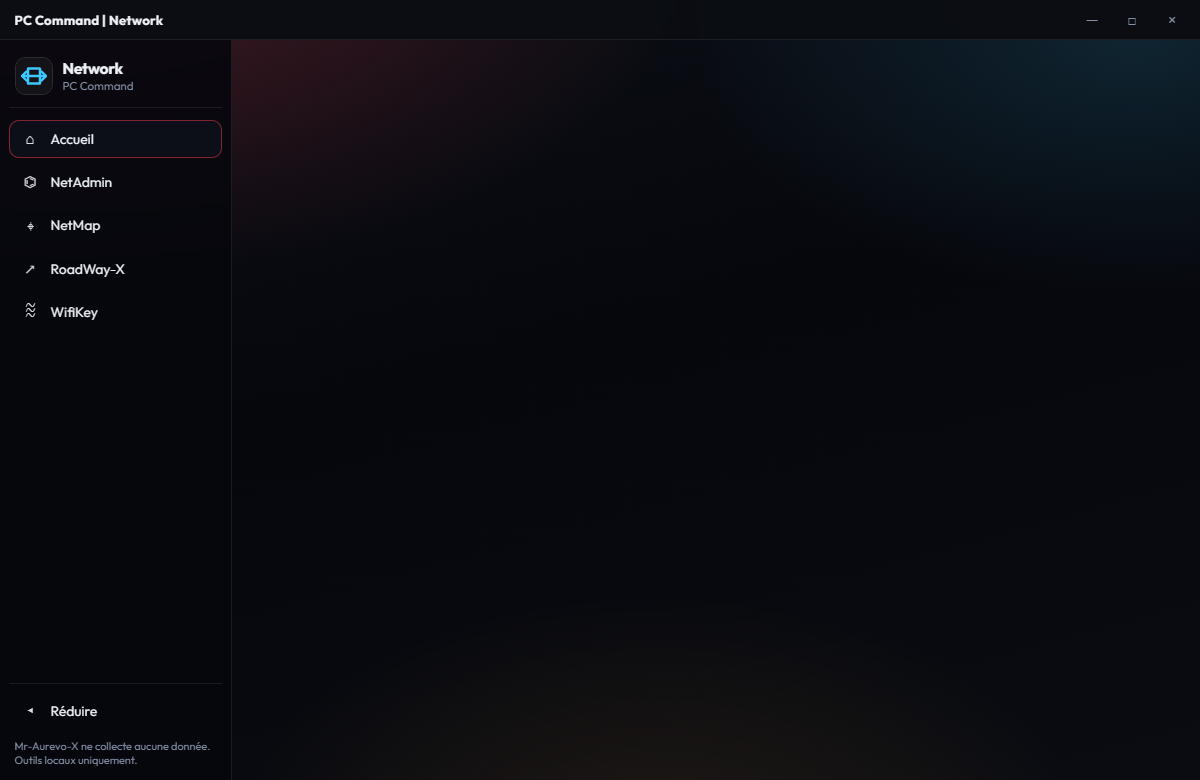
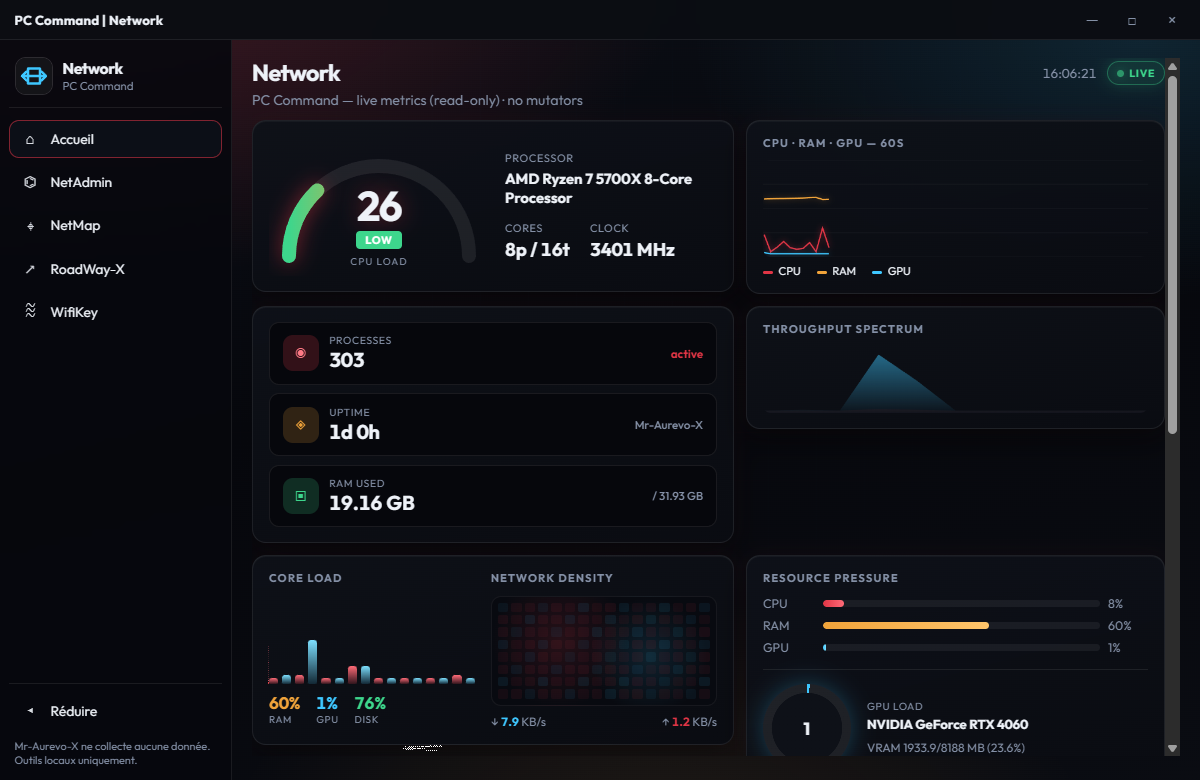
release: v1.4.7 hub boot hardening, update check fix, screenshots
- Boot try/catch + SHOW_VIEW per hub
- hub_update: semver compare, skip dev-tree update banner
- Recaptured validated dashboard/module PNGs

diff --git a/ui/app.js b/ui/app.js
@@ -206,6 +206,7 @@ async function loadVersionAndUpdates() {
   try {
     if (typeof a.check_for_update === "function") {
       const u = await a.check_for_update();
+      if (u?.fromSourceTree) return;
       if (u?.needsAuth) {
         showUpdateBanner(
           {
@@ -281,13 +282,46 @@ function wireSidebar() {
   });
 }
 
+async function waitPywebviewReady(timeoutMs = 8000) {
+  if (window.pywebview && window.pywebview.api) return;
+  await new Promise((resolve) => {
+    const timer = setTimeout(resolve, timeoutMs);
+    window.addEventListener(
+      "pywebviewready",
+      () => {
+        clearTimeout(timer);
+        resolve();
+      },
+      { once: true }
+    );
+  });
+}
+
+function showBootError(err) {
+  const root = document.getElementById("hubView");
+  if (!root) return;
+  const msg = String((err && err.message) || err || "Erreur inconnue")
+    .replace(/&/g, "&amp;")
+    .replace(/</g, "&lt;");
+  root.innerHTML =
+    '<div class="hub-boot-error" role="alert" style="padding:1.5rem;color:#f5f5f5">' +
+    "<strong>Erreur au démarrage</strong>" +
+    `<p style="margin-top:0.5rem;opacity:0.85">${msg}</p></div>`;
+}
+
 async function boot() {
-  wireSidebar();
-  await waitApi();
-  await showView("dashboard");
-  const bootView = (location.hash || "").replace(/^#/, "").trim();
-  if (bootView && bootView !== "dashboard") await showView(bootView);
-  void loadVersionAndUpdates();
+  try {
+    wireSidebar();
+    await waitPywebviewReady();
+    await waitApi();
+    await showView("dashboard");
+    const bootView = (location.hash || "").replace(/^#/, "").trim();
+    if (bootView && bootView !== "dashboard") await showView(bootView);
+    void loadVersionAndUpdates();
+  } catch (err) {
+    console.error("[Hub boot]", err);
+    showBootError(err);
+  }
 }
 
 if (document.readyState === "loading") {

diff --git a/ui/dashboard.js b/ui/dashboard.js
@@ -5,7 +5,7 @@
 const HUB_LABEL = "Network";
 const HUB_BLURB = "PC Command — live metrics (read-only) · no mutators";
 const SHOW_VIEW =
-  () => window.HubShell?.showView || window.HubSysteme?.showView;
+  () => window.HubReseau?.showView || window.HubShell?.showView;
 
 const FALLBACK_MODULES = [
   { id: "netadmin", label: "NetAdmin", desc: "Adaptateurs réseau · fichier hosts · règles pare-feu", ico: "⌬" },

diff --git a/backend/hub_update.py b/backend/hub_update.py
@@ -202,12 +202,24 @@ def expected_asset_sha256(catalog: dict | None, name: str) -> tuple[str | None, 
     return (raw or None), True
 
 
+def running_from_dev_central_tree(path: Path) -> bool:
+    lowered = str(Path(path).resolve()).lower().replace("/", "\\")
+    return "\\dev central tree\\" in lowered
+
+
 def running_from_source_tree(path: Path) -> bool:
     lowered = str(Path(path).resolve()).lower().replace("/", "\\")
-    needle = f"\\{lowered}\\"
-    if "\\dev central tree\\" not in needle:
+    if not running_from_dev_central_tree(path):
         return False
-    return "\\01_hubs\\" in needle or "\\atelierwindows\\" in needle
+    if "\\01_hubs\\" in lowered or "\\atelierwindows\\" in lowered:
+        return True
+    # Launch-Hub-*.exe rebuilt at Dev Central Tree root (dev / smoke / capture)
+    if getattr(sys, "frozen", False):
+        exe = Path(sys.executable).resolve()
+        name = exe.name.lower()
+        if name.startswith("launch-hub-") and name.endswith(".exe"):
+            return exe.parent.resolve() == Path(path).resolve()
+    return False
 
 
 def _assert_allowed_url(url: str) -> None:
@@ -257,6 +269,31 @@ def normalize_version(raw: str | None) -> str:
     if s and s[0].isdigit():
         return f"v{s}"
     return s
+
+
+def _version_tuple(raw: str | None) -> tuple[int, ...]:
+    s = normalize_version(raw)
+    if s.lower().startswith("v"):
+        s = s[1:]
+    parts: list[int] = []
+    for piece in s.replace("-", ".").split("."):
+        if not piece:
+            continue
+        digits = ""
+        for ch in piece:
+            if ch.isdigit():
+                digits += ch
+            else:
+                break
+        if not digits:
+            break
+        parts.append(int(digits))
+    return tuple(parts) if parts else (0,)
+
+
+def is_remote_newer(remote: str | None, local: str | None) -> bool:
+    """True only when remote semver is strictly greater than local."""
+    return _version_tuple(remote) > _version_tuple(local)
 
 
 def format_version_bracket(version: str | None) -> str:
@@ -401,7 +438,9 @@ def check_hub_update(
     auto_update = read_auto_update_setting(*roots, default_install_dir())
     from_sot = running_from_source_tree(app_dir)
     if getattr(sys, "frozen", False):
-        from_sot = from_sot or running_from_source_tree(Path(sys.executable).parent)
+        exe_parent = Path(sys.executable).resolve().parent
+        from_sot = from_sot or running_from_source_tree(exe_parent)
+        from_sot = from_sot or running_from_dev_central_tree(exe_parent)
 
     try:
         release = json.loads(_api_request(api_latest_url(repo), tok).decode("utf-8"))
@@ -445,7 +484,7 @@ def check_hub_update(
 
     assets = {str(a.get("name") or ""): a for a in (release.get("assets") or [])}
     has_asset = asset_name in assets
-    update_available = bool(remote) and (local or "") != remote and has_asset
+    update_available = bool(remote) and is_remote_newer(remote, local) and has_asset
     can_self = bool(update_available and has_asset and not from_sot)
 
     return {
@@ -765,9 +804,12 @@ def apply_hub_update(
     for marker in ("\\dev central tree\\", "\\01_hubs\\", "\\atelierwindows\\"):
         if marker in f"\\{lowered}\\":
             return {
-                "ok": False,
-                "error": (
-                    "Mise à jour refusée : le hub tourne depuis le dépôt source. "
+                "ok": True,
+                "skipped": True,
+                "updated": False,
+                "reason": "fromSourceTree",
+                "message": (
+                    "Mise à jour ignorée : hub lancé depuis le dépôt source. "
                     f"Installe via Install-Easy sous %LOCALAPPDATA%\\{HUB_INSTALL_DIR}."
                 ),
             }
